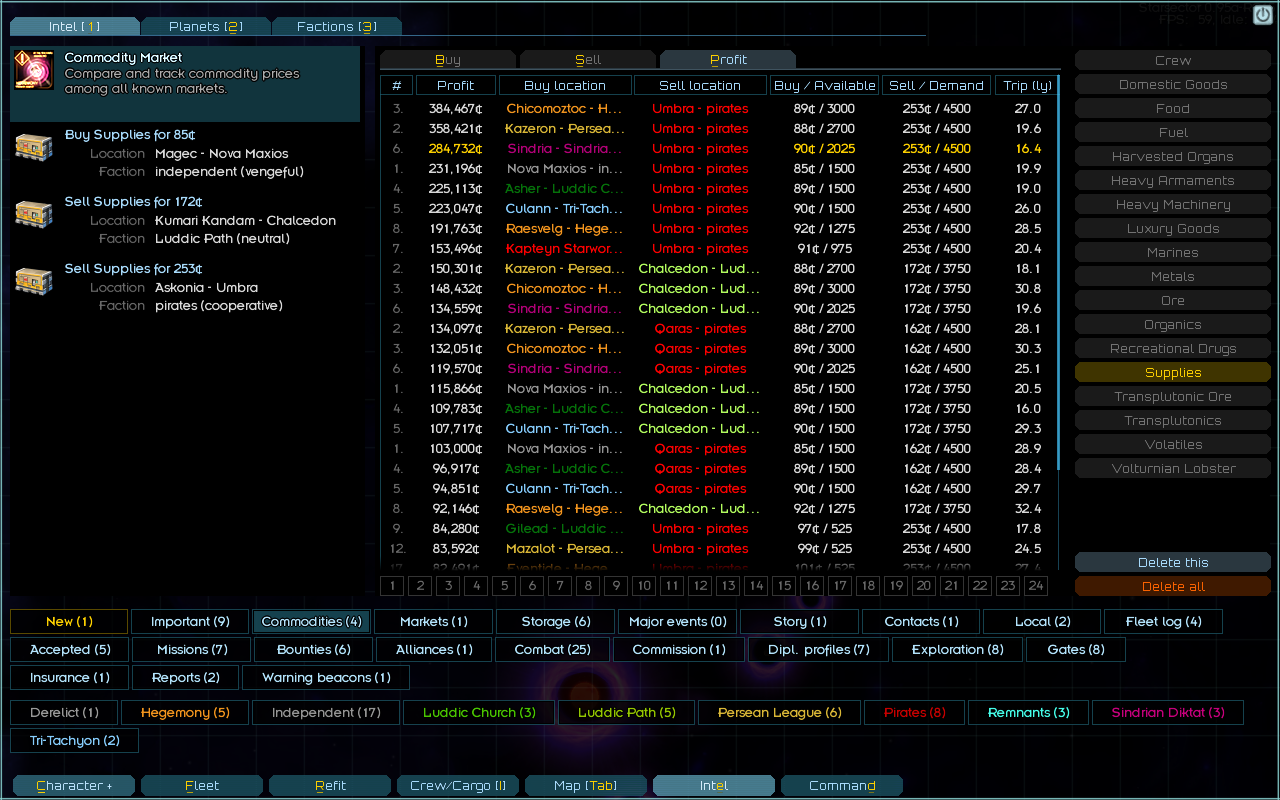
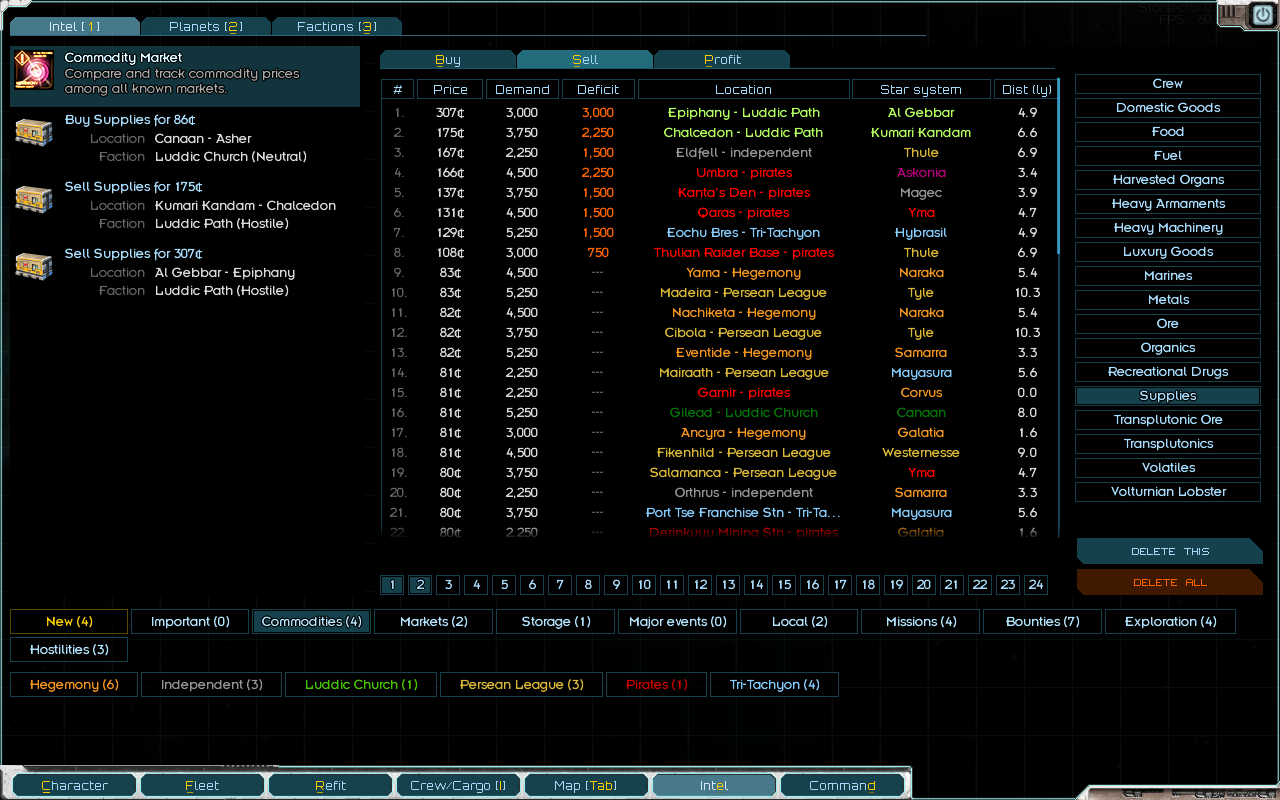
Update screenshots

diff --git a/README.md b/README.md
@@ -17,7 +17,8 @@ It also hosts a Profit tab that can be used to find viable trade routes.
 
 Market Queries board (formerly [Hyperspace Networks](https://fractalsoftworks.com/forum/index.php?topic=19252)) manages market searches. These can be either staff search (e.g. freelance administrator, steady officer, aggressive mercenary), item search (e.g. specific mod-spec or weapon), or ship search (e.g. pristine frigate, d-modded carrier).
 
-![Market](https://github.com/jaghaimo/stelnet/raw/master/images/market.png)
+![Add a New Tab](https://github.com/jaghaimo/stelnet/raw/master/images/market1.png)
+![Query List](https://github.com/jaghaimo/stelnet/raw/master/images/market2.png)
 
 Market Viewer board lets you select a market and preview content of all its submarkets.
 
@@ -32,7 +33,7 @@ It allows to display a unified view to quickly verify what is available, and per
 
 ## Installation and Configuration
 
-To configure the mod edit [stelnet.json.dist](assets/stelnet.json.dist) and save it as `stelnet.json`.
+To configure the mod edit [stelnet.hjson.dist](assets/stelnet.hjson.dist) and save it as `stelnet.hjson`.
 
 This mod can be added to an existing playthrough - just enable it in the mod list and load the save.
 
